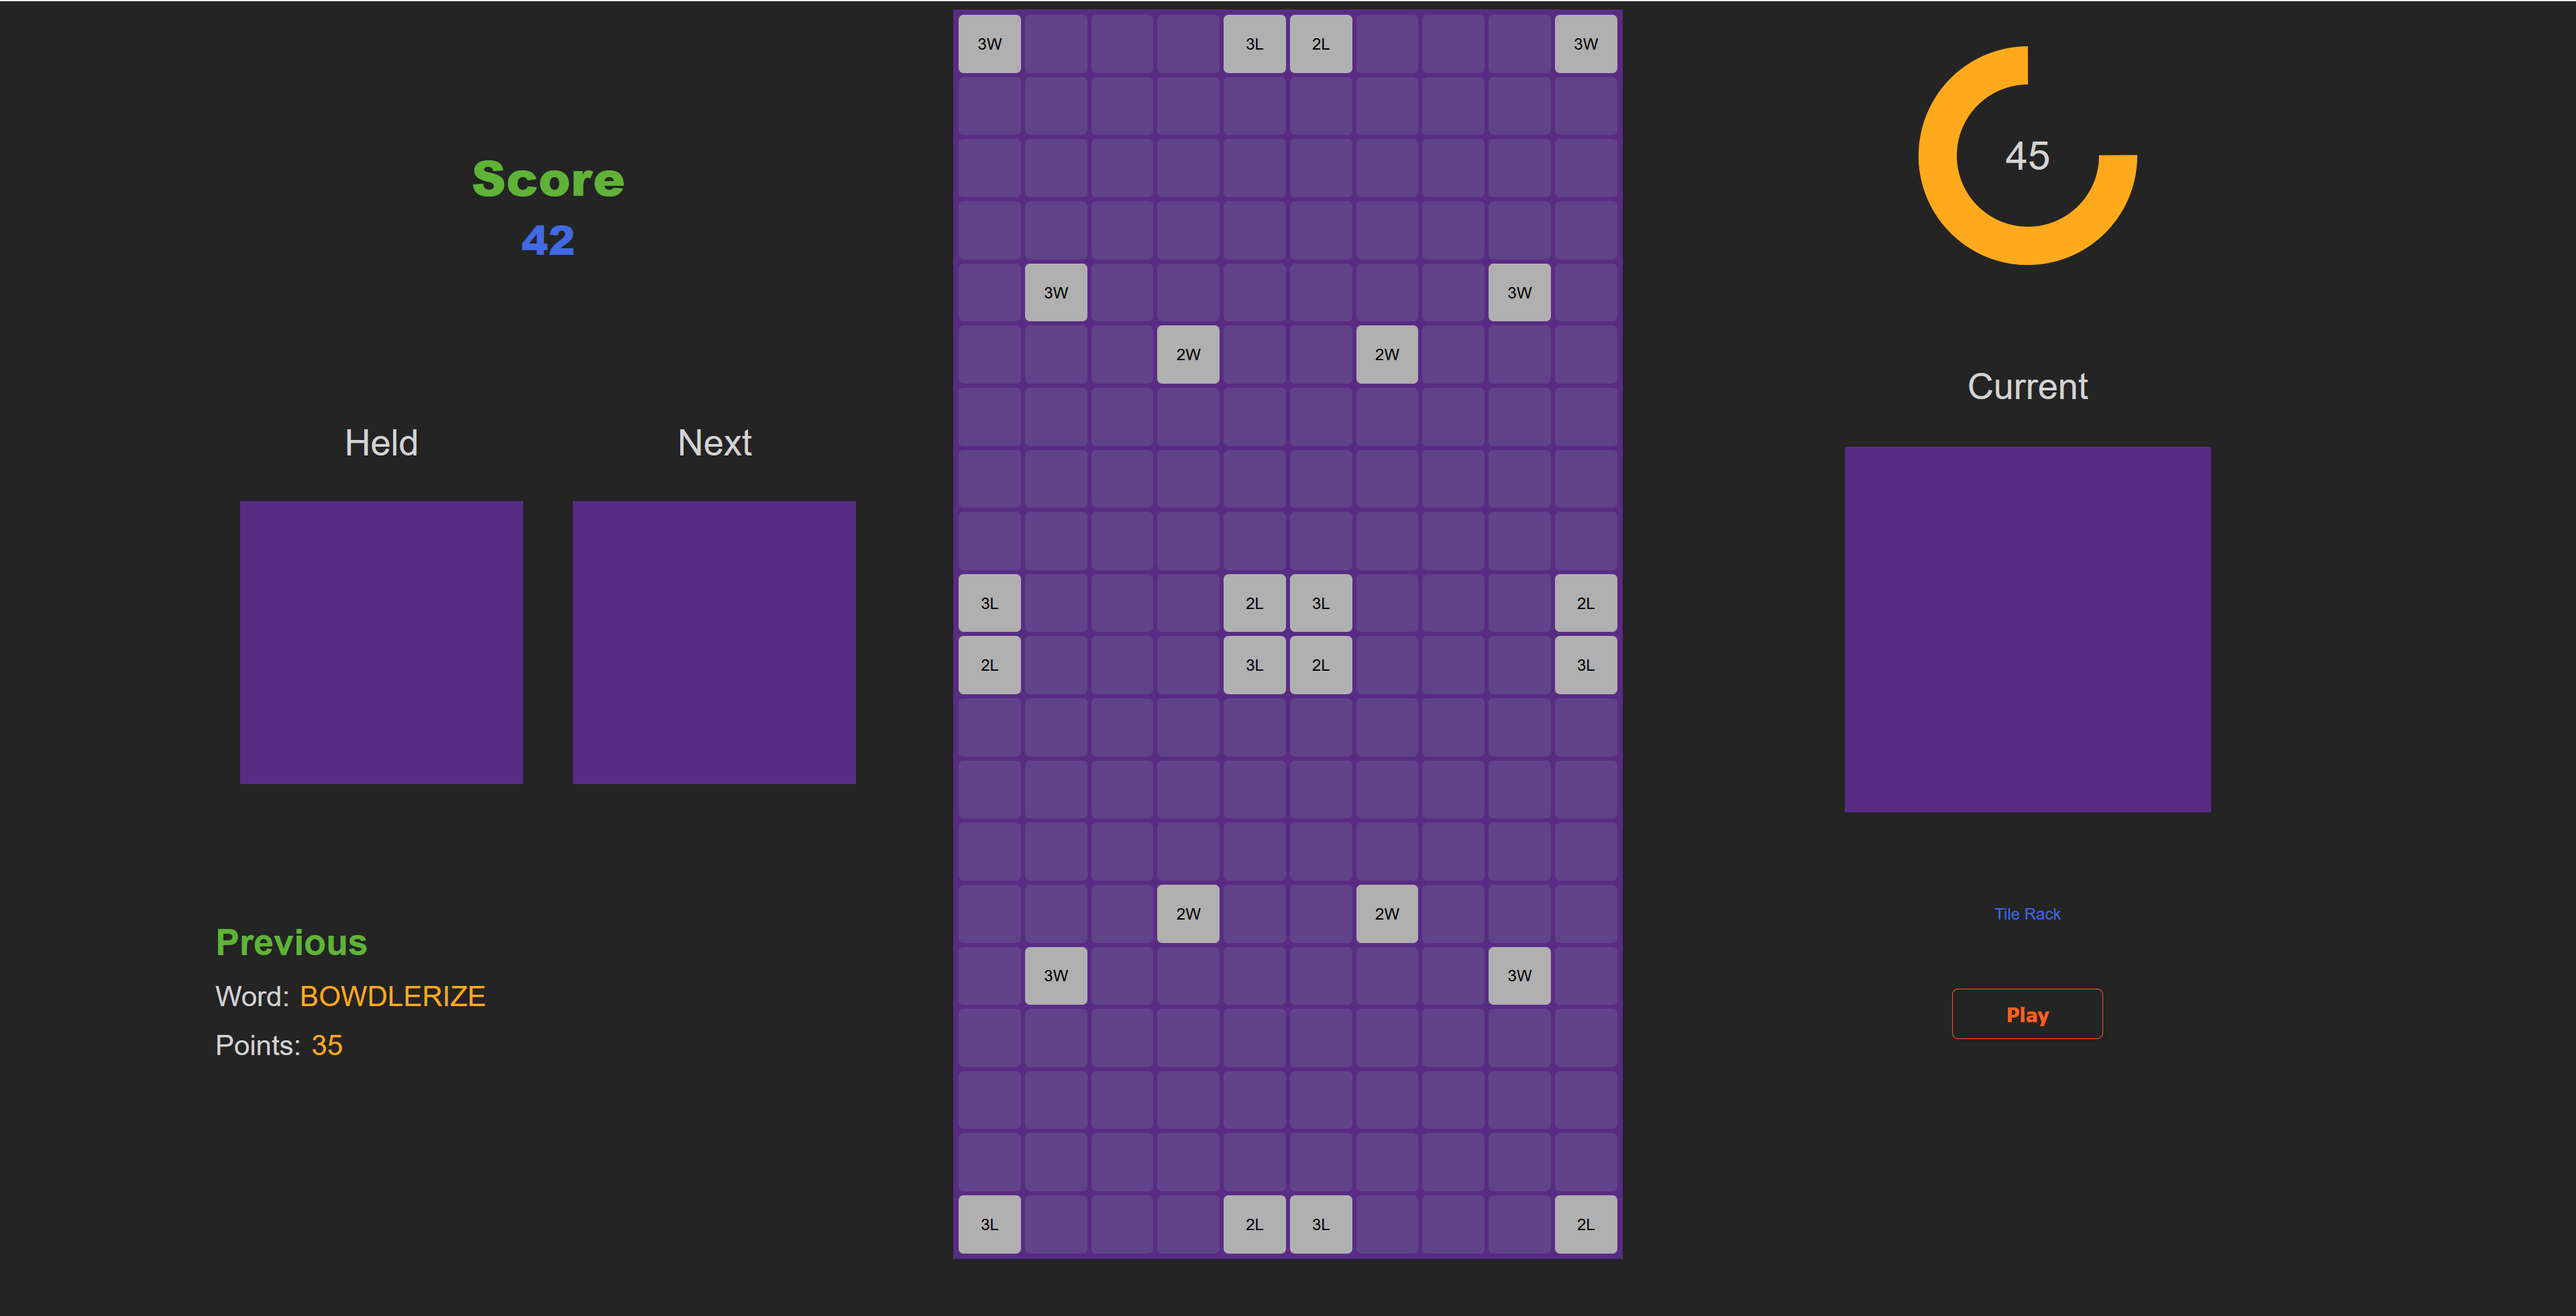
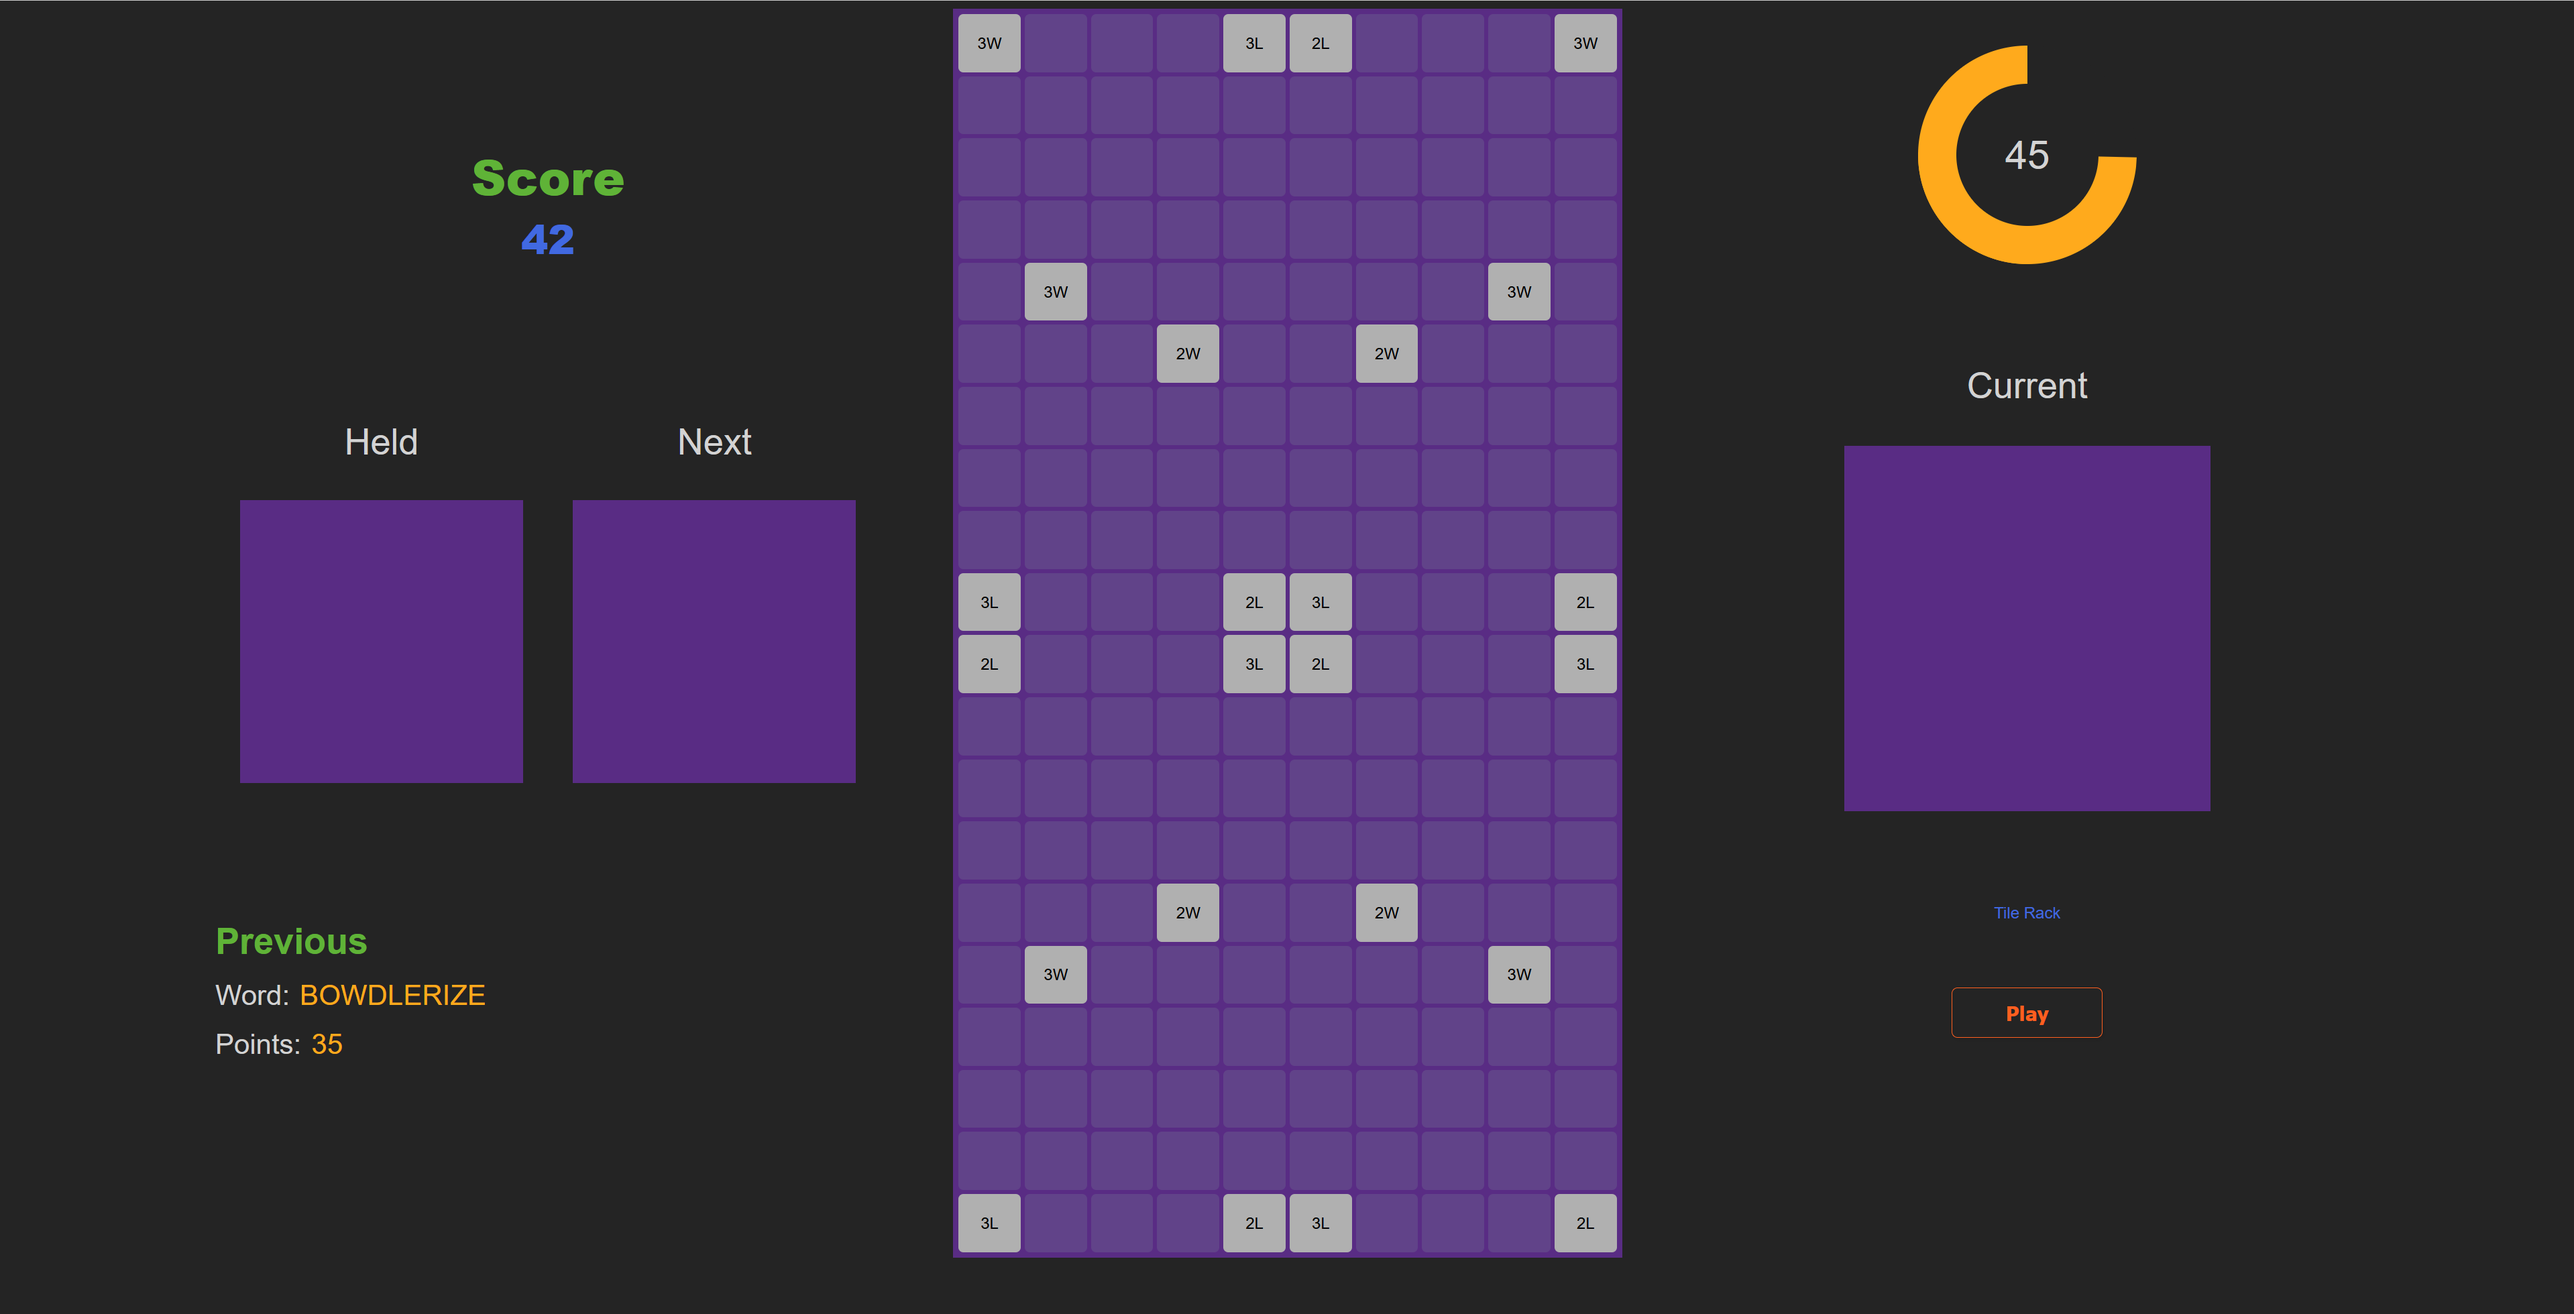
Update Play.razor mockup.

diff --git a/CapstoneBlazorServerSite/Pages/Play.razor.css b/CapstoneBlazorServerSite/Pages/Play.razor.css
@@ -3,19 +3,22 @@
     height: 100vh;
     display: flex;
     flex-direction: column;
+    justify-content: flex-end;
     background-color: rgb(36, 36, 36);
 }
 
 .nav-bar {
-   position: absolute;
+    height: 2.75rem;
+/*    border: 2px solid red;*/
 }
 
 .background-image {
     width: 100%;
-    height: 95%;    
+    height: 96.65%;    
     background-image: url("images/website-assets/GamePageDemoScreen.png");
     background-size: cover;
     background-repeat: no-repeat;
     background-position: center;
-    align-self: flex-end;
+/*    border: 2px dashed yellow;*/
+    align-self: stretch;
 }
